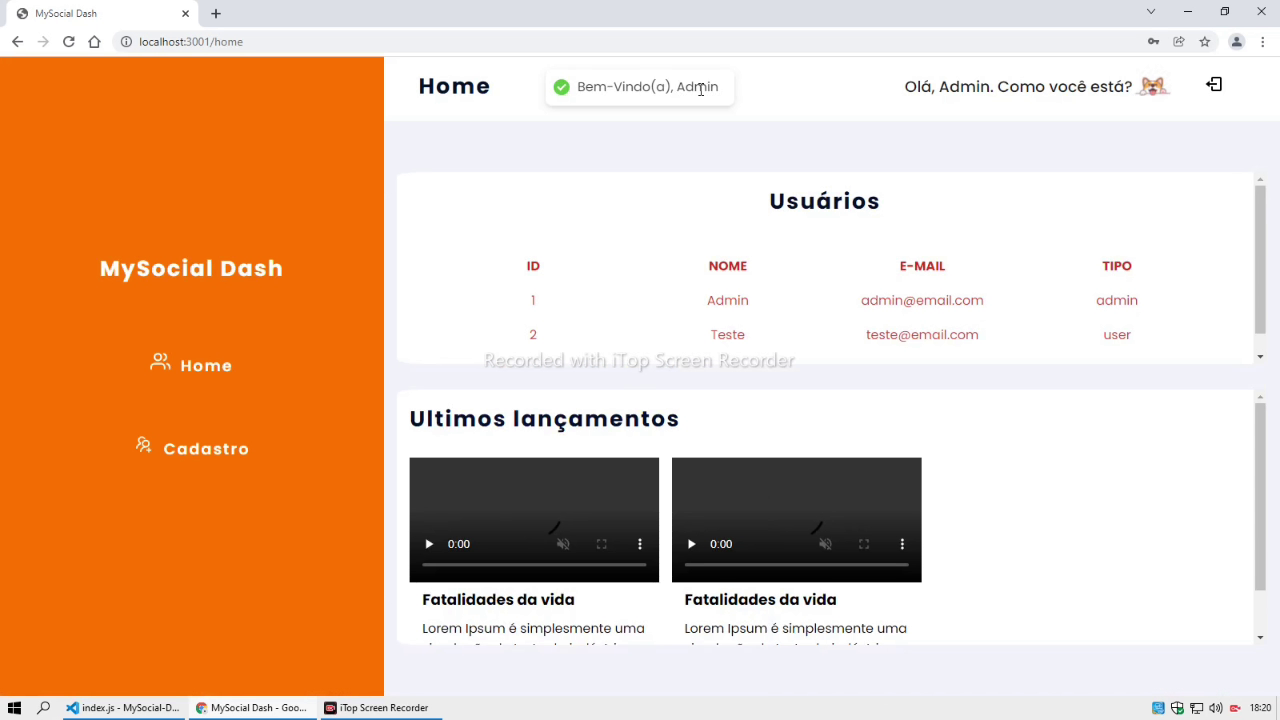
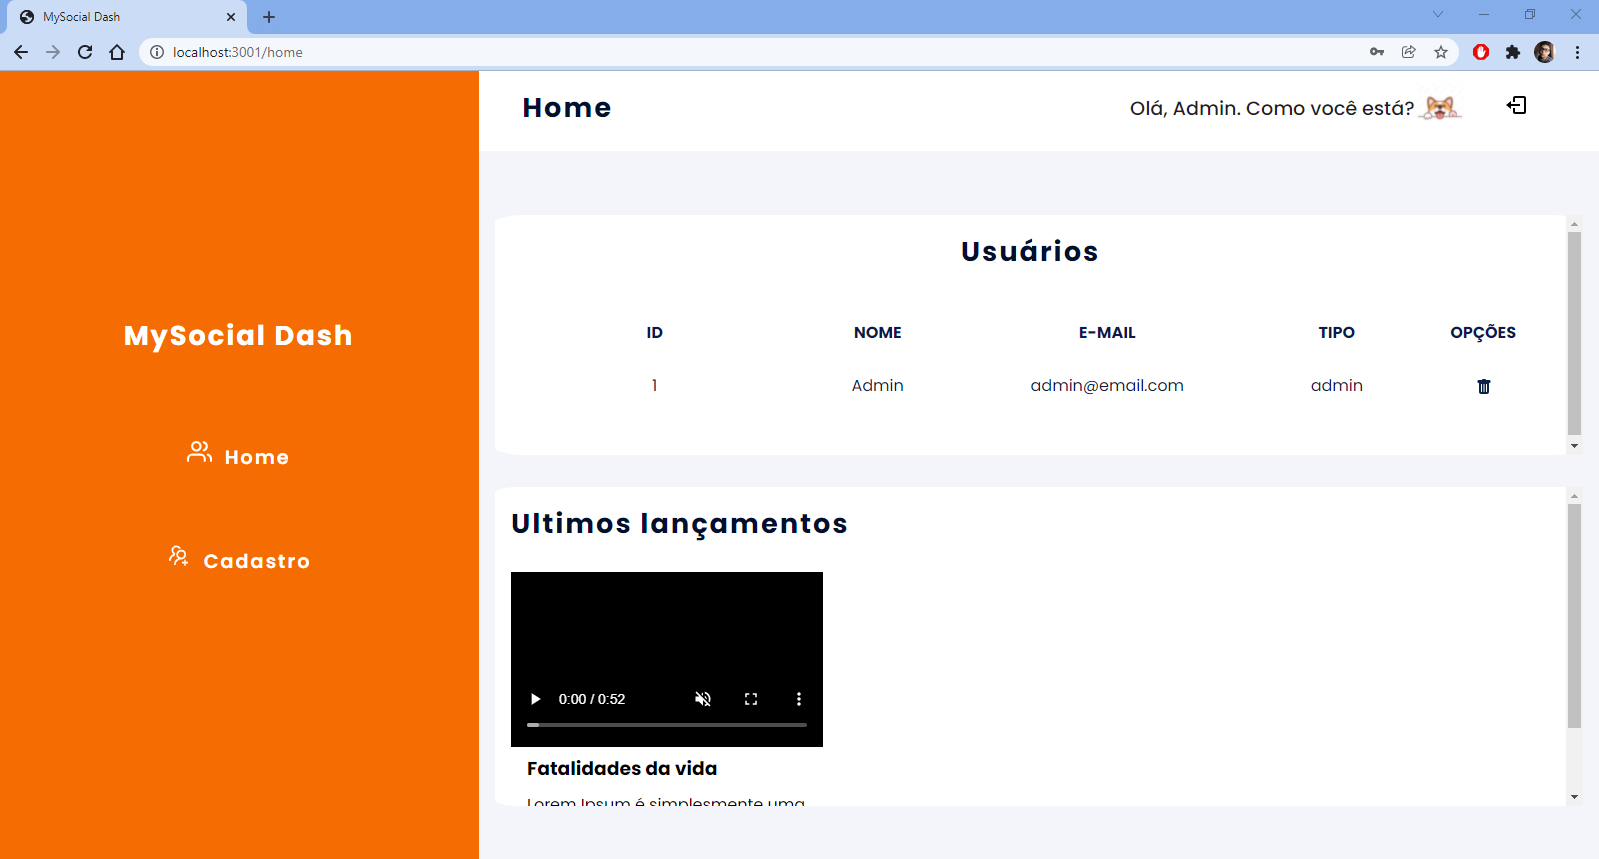
Função delete criada e correção de reame

diff --git a/frontend/src/pages/Home/index.js b/frontend/src/pages/Home/index.js
@@ -1,5 +1,7 @@
-import React, { useEffect, useState } from "react";
+import React, { useState } from "react";
 import "./style.scss";
+
+import { BsFillTrashFill } from "react-icons/bs";
 
 import UsersServices from "./services";
 import Container from "../../components/Container";
@@ -12,54 +14,62 @@ const Home = () => {
     setUsers(data);
   };
 
-  useEffect(() => {
-    GetUsers();
-  }, []);
+  GetUsers();
+
+  const handleDelet = async (id) => {
+    return await UsersServices.deletUser(id);
+  };
 
   return (
     <Container title="Home">
-        <div className="container__table">
-          <h2>Usuários</h2>
-          <table>
-            <thead>
-              <tr>
-                <th>id</th>
-                <th>nome</th>
-                <th>e-mail</th>
-                <th>Tipo</th>
+      <div className="container__table">
+        <h2>Usuários</h2>
+        <table>
+          <thead>
+            <tr>
+              <th>id</th>
+              <th>nome</th>
+              <th>e-mail</th>
+              <th>Tipo</th>
+              <th>Opções</th>
+            </tr>
+          </thead>
+          <tbody>
+            {users.map(({ id, name, email, tipo }) => (
+              <tr key={id}>
+                <td>{id}</td>
+                <td>{name}</td>
+                <td>{email}</td>
+                <td>{tipo}</td>
+                <td>
+                  <button onClick={() => handleDelet(id)}>
+                    <BsFillTrashFill />
+                  </button>
+                </td>
               </tr>
-            </thead>
-            <tbody>
-              {users.map(({ id, name, email, tipo }) => (
-                <tr key={id}>
-                  <td>{id}</td>
-                  <td>{name}</td>
-                  <td>{email}</td>
-                  <td>{tipo}</td>
-                </tr>
-              ))}
-            </tbody>
-          </table>
-        </div>
-
-        <div className="container__videos">
-          <h2>Ultimos lançamentos</h2>
-          <div className="list__videos">
-            {users.map(({ id, url, title, description }) => (
-              <section key={id} className="card-videos">
-                <div className="video">
-                  <video loop="true" controls muted className="video-styled">
-                    <source src={url} type="video/mp4" />
-                  </video>
-                </div>
-                <div className="descriptions">
-                  <h3>{title}</h3>
-                  <p>{description}</p>
-                </div>
-              </section>
             ))}
-          </div>
+          </tbody>
+        </table>
+      </div>
+
+      <div className="container__videos">
+        <h2>Ultimos lançamentos</h2>
+        <div className="list__videos">
+          {users.map(({ id, url, title, description }) => (
+            <section key={id} className="card-videos">
+              <div className="video">
+                <video loop="true" controls muted className="video-styled">
+                  <source src={url} type="video/mp4" />
+                </video>
+              </div>
+              <div className="descriptions">
+                <h3>{title}</h3>
+                <p>{description}</p>
+              </div>
+            </section>
+          ))}
         </div>
+      </div>
     </Container>
   );
 };

diff --git a/frontend/src/pages/Home/style.scss b/frontend/src/pages/Home/style.scss
@@ -1,12 +1,12 @@
 .container__table {
   width: 100%;
-  
+
   padding: 1em;
   margin-top: 2em;
   max-height: 30vh;
 
   border-radius: 3%;
-  
+
   overflow-y: scroll;
   background: var(--colorWhite);
 
@@ -15,32 +15,38 @@
     letter-spacing: 5px;
 
     margin-bottom: 0.5em;
-
   }
-}
 
-table {
-  width: 100%;
+  table {
+    width: 100%;
 
-  padding: 2em;
-}
+    padding: 2em;
+  }
 
-th {
-  width: 25%;
+  th {
+    width: 25%;
 
-  color: #c51616f2;
-  text-transform: uppercase;
-}
+    color: #010d41f2;
+    text-transform: uppercase;
+  }
 
-td {
-  padding-top: 1em;
-  color: #cd3939;
-  text-align: center;
+  td,
+  button {
+    padding-top: 1em;
+    color: #092146;
+    text-align: center;
+  }
+
+  button {
+    border: none;
+    font-size: 1em;
+    background: none;
+  }
 }
 
 .container__videos {
   max-width: 68vw;
-  height: 40vh;  
+  height: 40vh;
 
   padding: 1em;
   margin-top: 2em;

diff --git a/frontend/src/pages/Cadastro/index.js b/frontend/src/pages/Cadastro/index.js
@@ -158,8 +158,8 @@ const Cadastro = () => {
                 cols="5"
                 autoCapitalize="sentences"
                 autoComplete="on"
-                minLength={50}
-                maxLength={100}
+                minLength={20}
+                maxLength={30}
                 placeholder="Digitando..."
                 required="required"
                 value={UserAndVideo.description}

diff --git a/frontend/src/pages/Home/services.js b/frontend/src/pages/Home/services.js
@@ -4,6 +4,10 @@ class UsersServices {
   static listUsers() {
     return baseApi.get("/users");
   }
+
+  static deletUser(id) {
+    return baseApi.delete(`/users/${id}`)
+  }
 }
 
 export default UsersServices;

diff --git a/README.md b/README.md
@@ -56,11 +56,15 @@
     <img src="the-project/login.png">
     <br><br>
     <h4>Tela Home<h4>
-    <img src="the-project/login.png">
+    <img src="the-project/home.png">
     <br><br>
     <h4>Tela Cadastro<h4>
     <img src="the-project/cadastro.png">
-    <br>     
+    <br>
+    <h4>Tela Outras Páginas<h4>
+    <img src="the-project/outrapage.png">
+    <br>
+
 </div>
 
 <h3 id=linguagens>Linguagens & Frameworks</h3>
